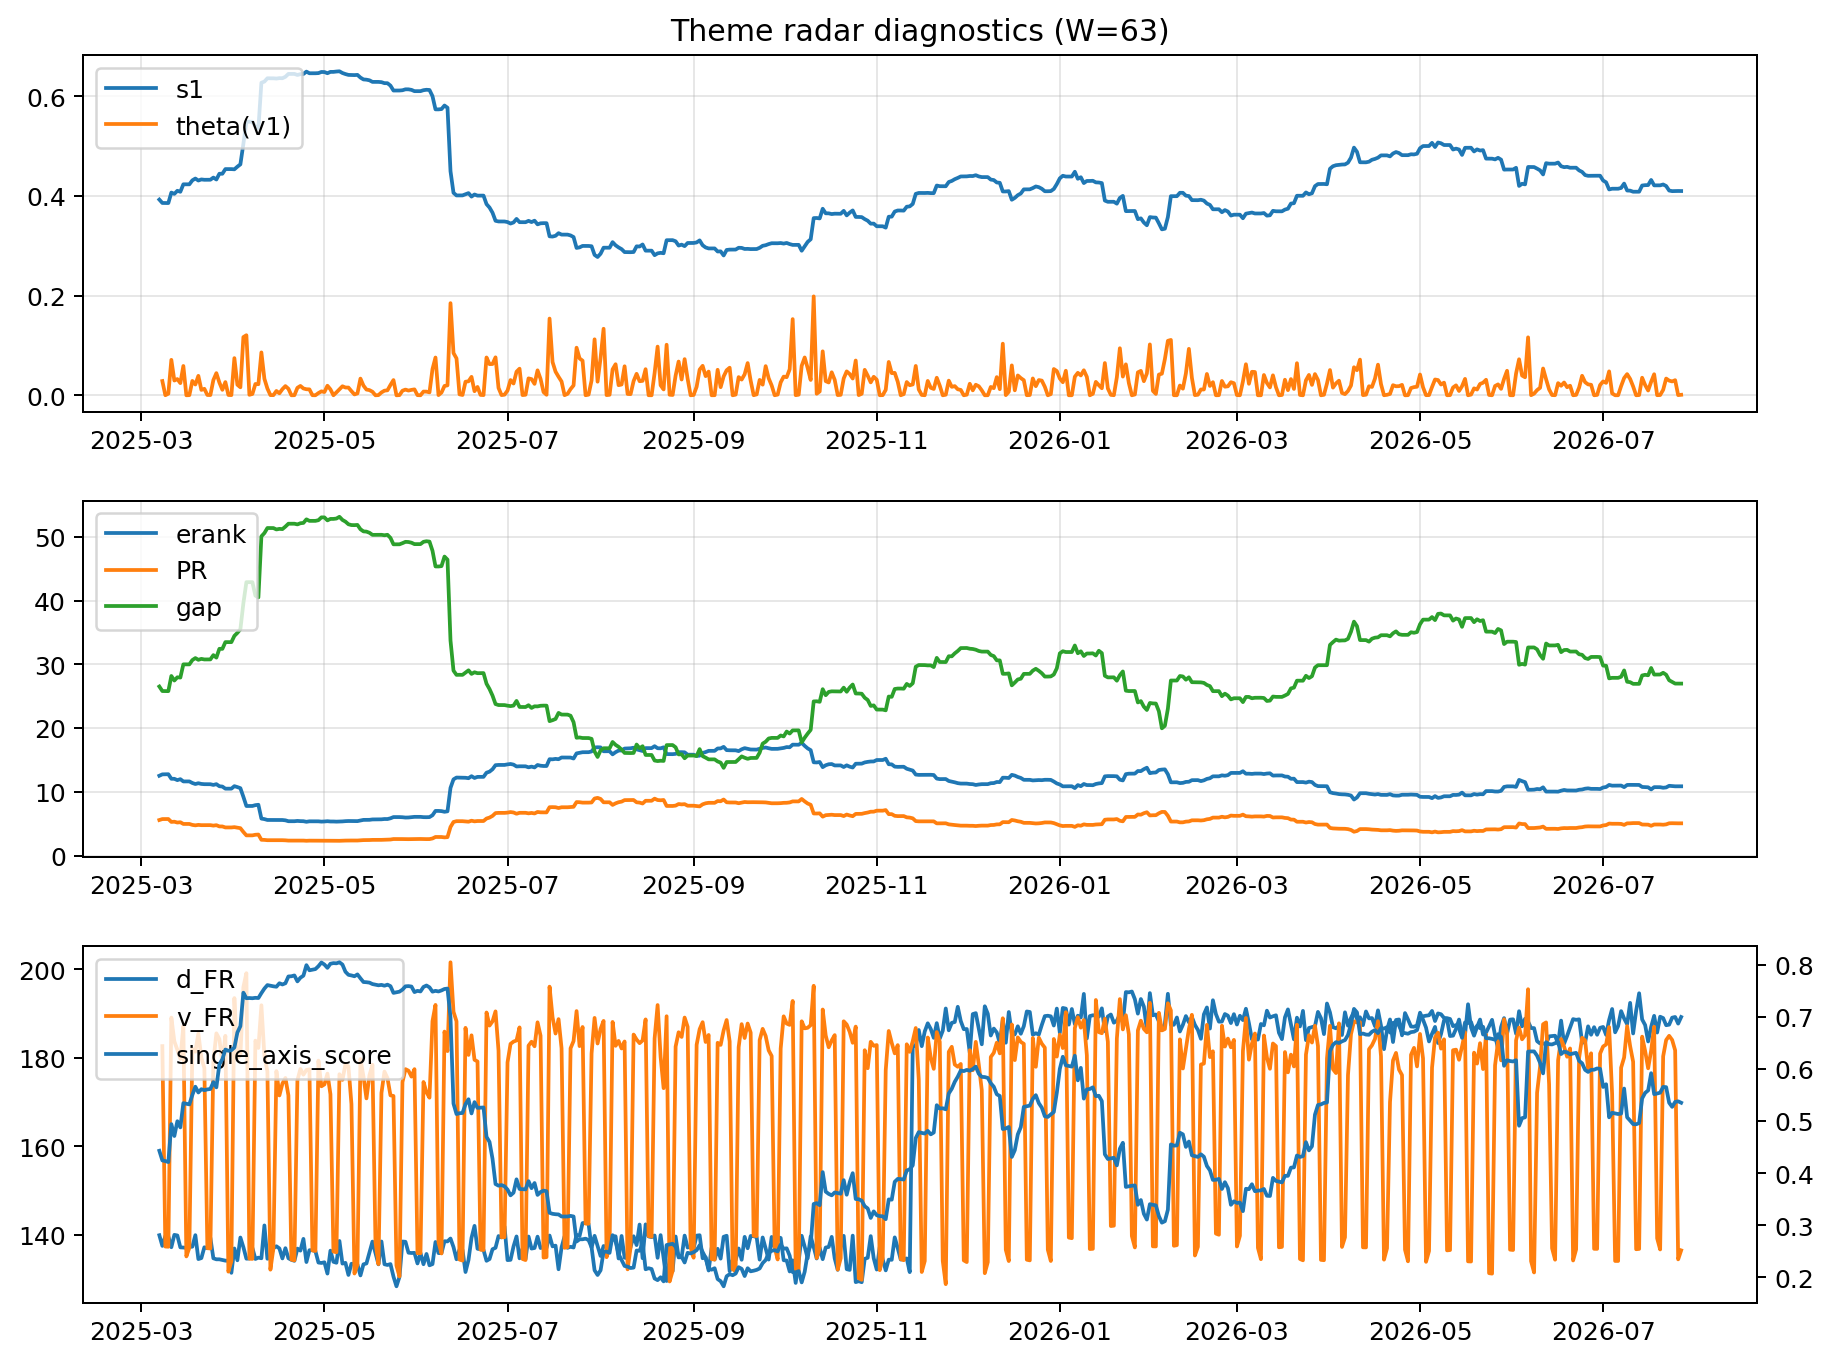
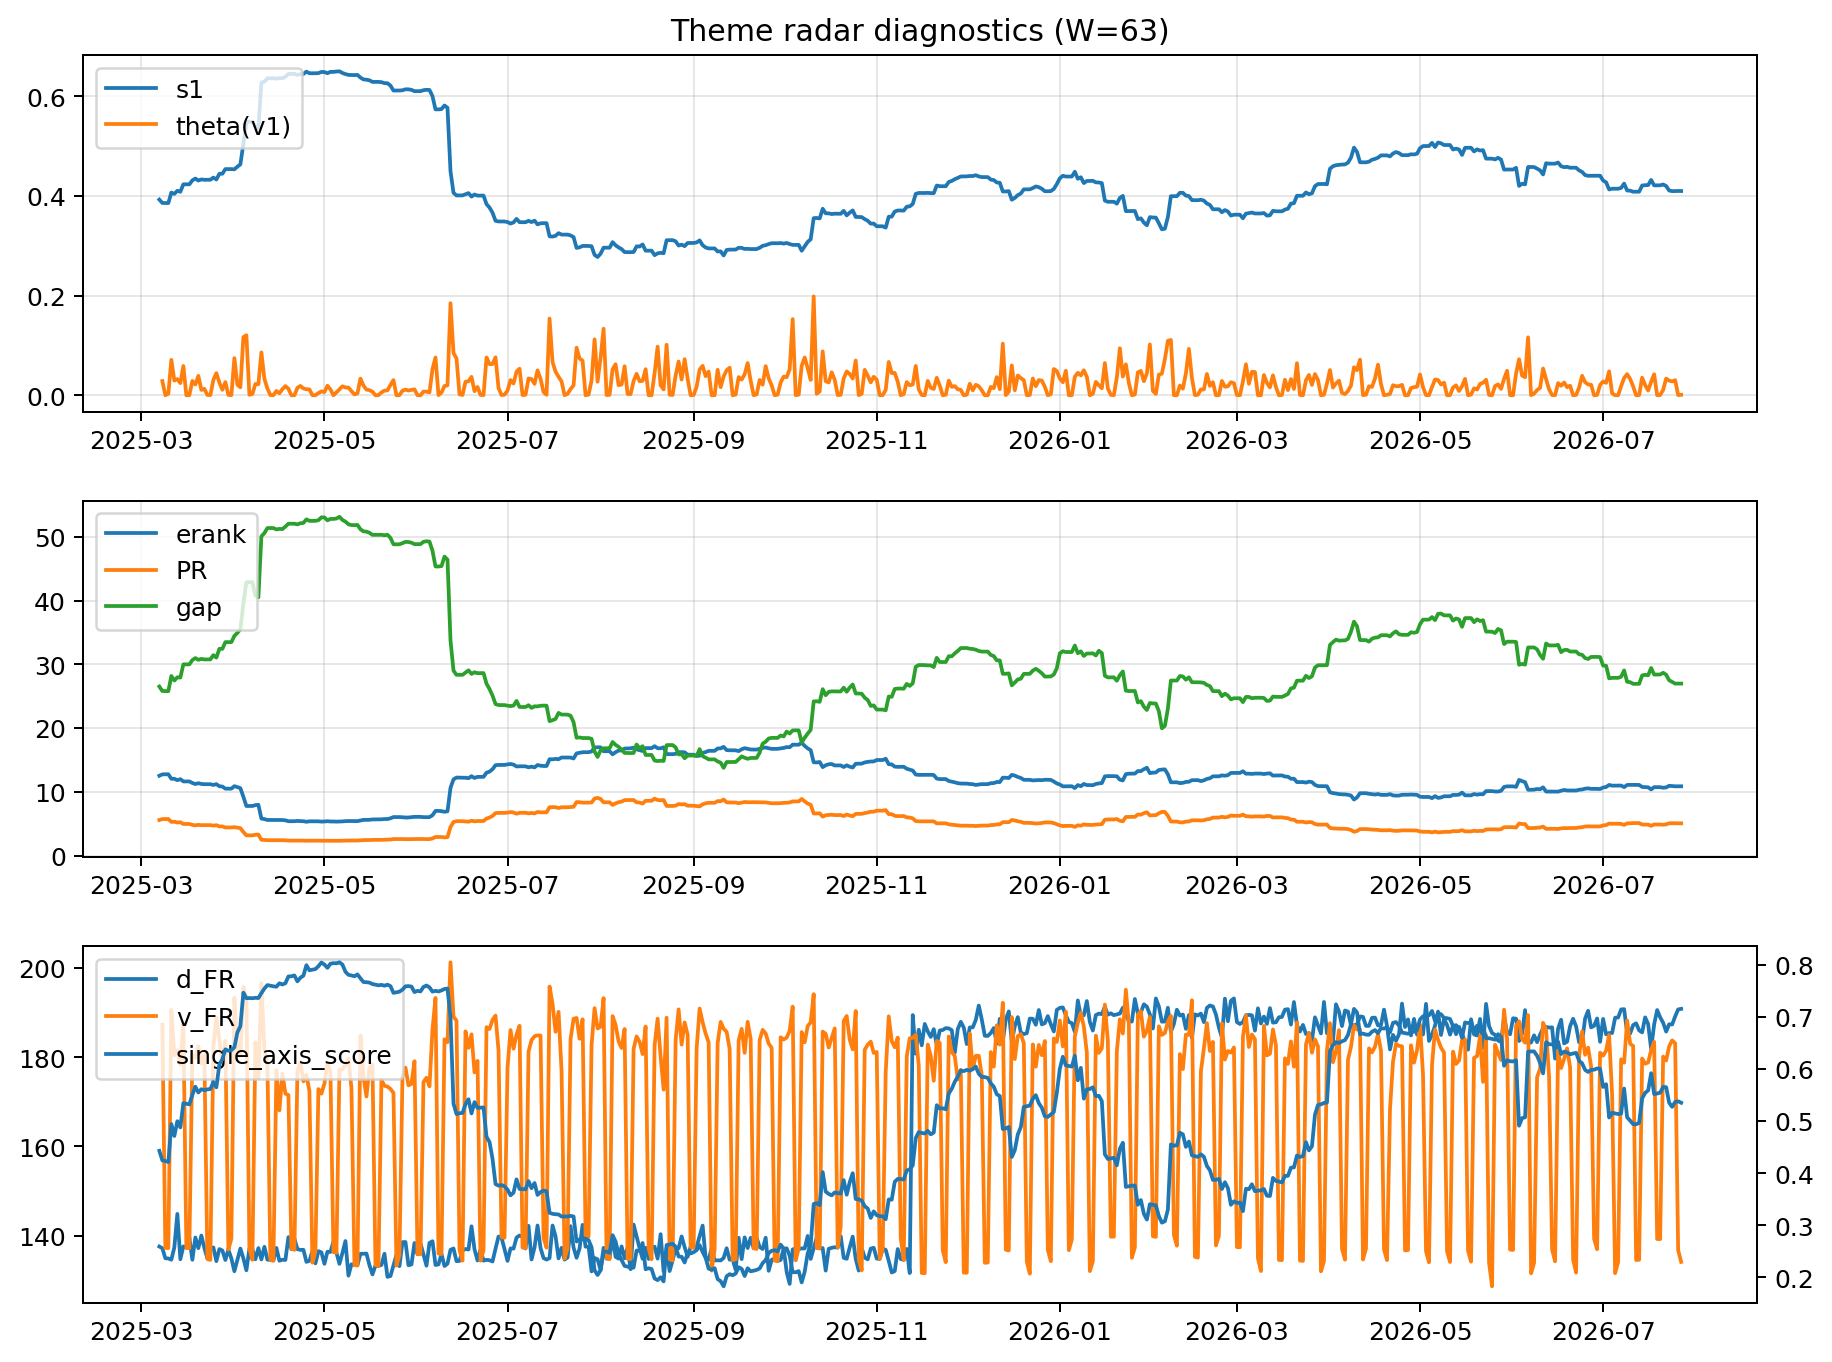
log: 2026-07-27 | sha256:0ba5ea1890505c79d0d781f3e26b622ce25593e2b726dd947bf0b3c2a26877e6

Changed region(s): [[0.0933, 0.7093, 0.9334, 0.9559], [0.6845, 0.8943, 0.7467, 0.9251], [0.0933, 0.7401, 0.1245, 0.7709]]

diff --git a/logs/2026-07-27.md b/logs/2026-07-27.md
@@ -3,43 +3,43 @@
 ![diagnostic W63](../assets/diagnostic/2026-07-27_W63.png)
 
 ## Leaders (v1) — W=63
-- **Nuclear_Uranium** (0.086555794623237)
-- Semis (0.0682037376702347)
-- Quantum (0.0554852922599445)
+- **Nuclear_Uranium** (0.0865557951871155)
+- Semis (0.0682037383844332)
+- Quantum (0.0554852925009955)
 
 ## Challengers — W=63
-**v2:** Semis (0.086333992408751), MegaCap_AI (0.0846056016547563), Rates (0.0653267254435521)
-**v3:** Software_Cloud (0.0968587092807395), Grid_Power (0.0652659232668231), Crypto (0.0624041797146183)
+**v2:** Semis (0.0863339918511408), MegaCap_AI (0.084605602660338), Rates (0.065326719617639)
+**v3:** Software_Cloud (0.0968587055589441), Grid_Power (0.0652659223096041), Crypto (0.06240418741771)
 
 ## Migration (20D slope) — W=63
 **Top risers:**
-- axis_Sector_RealEstate: 0.0002918858157175
-- axis_Quantum: 0.0002215027025795
-- axis_Sector_Utilities: 0.0002018074235397
-- axis_Semis: 0.0001921126404854
-- axis_Crypto: 0.0001842247072184
-- axis_Nuclear_Uranium: 0.0001782712991177
-- axis_Sector_Health: 0.0001352297064492
-- axis_Cyber: 0.0001339975898982
-- axis_Space: 0.0001217057007955
-- axis_Metals: 0.0001211164476416
+- axis_Sector_RealEstate: 0.0002918857254476
+- axis_Quantum: 0.0002215030286921
+- axis_Sector_Utilities: 0.0002018074505274
+- axis_Semis: 0.0001921124544444
+- axis_Crypto: 0.0001842251364681
+- axis_Nuclear_Uranium: 0.000178271439988
+- axis_Sector_Health: 0.0001352294713527
+- axis_Cyber: 0.0001339973832991
+- axis_Space: 0.0001217052743342
+- axis_Metals: 0.0001211163021401
 
 **Top fallers:**
-- axis_USD: -8.321808991107917e-05
-- axis_MegaCap_AI: -8.575081955975838e-05
-- axis_Sector_Ind: -0.0001103630288548
-- axis_Defense: -0.0001484836873638
-- axis_Sector_ConsDisc: -0.0001541877009147
-- axis_Credit: -0.0001998394172096
-- axis_Sector_Materials: -0.0002173142203282
-- axis_Commodities: -0.000256591568135
-- axis_DataCenter_Infra: -0.0004509791847131
-- axis_Rates: -0.0005870885309535
+- axis_USD: -8.321814689526019e-05
+- axis_MegaCap_AI: -8.575097336049486e-05
+- axis_Sector_Ind: -0.0001103630103362
+- axis_Defense: -0.0001484837154268
+- axis_Sector_ConsDisc: -0.0001541876977262
+- axis_Credit: -0.0001998395249568
+- axis_Sector_Materials: -0.000217314230055
+- axis_Commodities: -0.0002565917339393
+- axis_DataCenter_Infra: -0.000450979097065
+- axis_Rates: -0.0005870866092325
 
 ## Risk line (W=63)
-- s1: 0.409745772551874
-- theta_v1: 0.0010166736265528
-- v_FR: 136.5313120397467
+- s1: 0.4097457700747397
+- theta_v1: 0.0010166736287368
+- v_FR: 134.08562193947338
 - single_axis_score: 0.5350393700787401
 
 ## Interpretation
@@ -48,7 +48,7 @@
 - Action: Tomorrow watchlist: Sector_RealEstate, Quantum, Sector_Utilities, Semis, Crypto + v2_top1=Semis
 - Action: Hedge note: normal correlation stability.
 
-- Percentiles (W=63 history): vfr_pct=0.16, theta_pct=0.21, s1_pct=0.50, score_pct=0.55.
+- Percentiles (W=63 history): vfr_pct=0.06, theta_pct=0.21, s1_pct=0.50, score_pct=0.55.
 
 ---
[2 lines of base64/hex data omitted]
